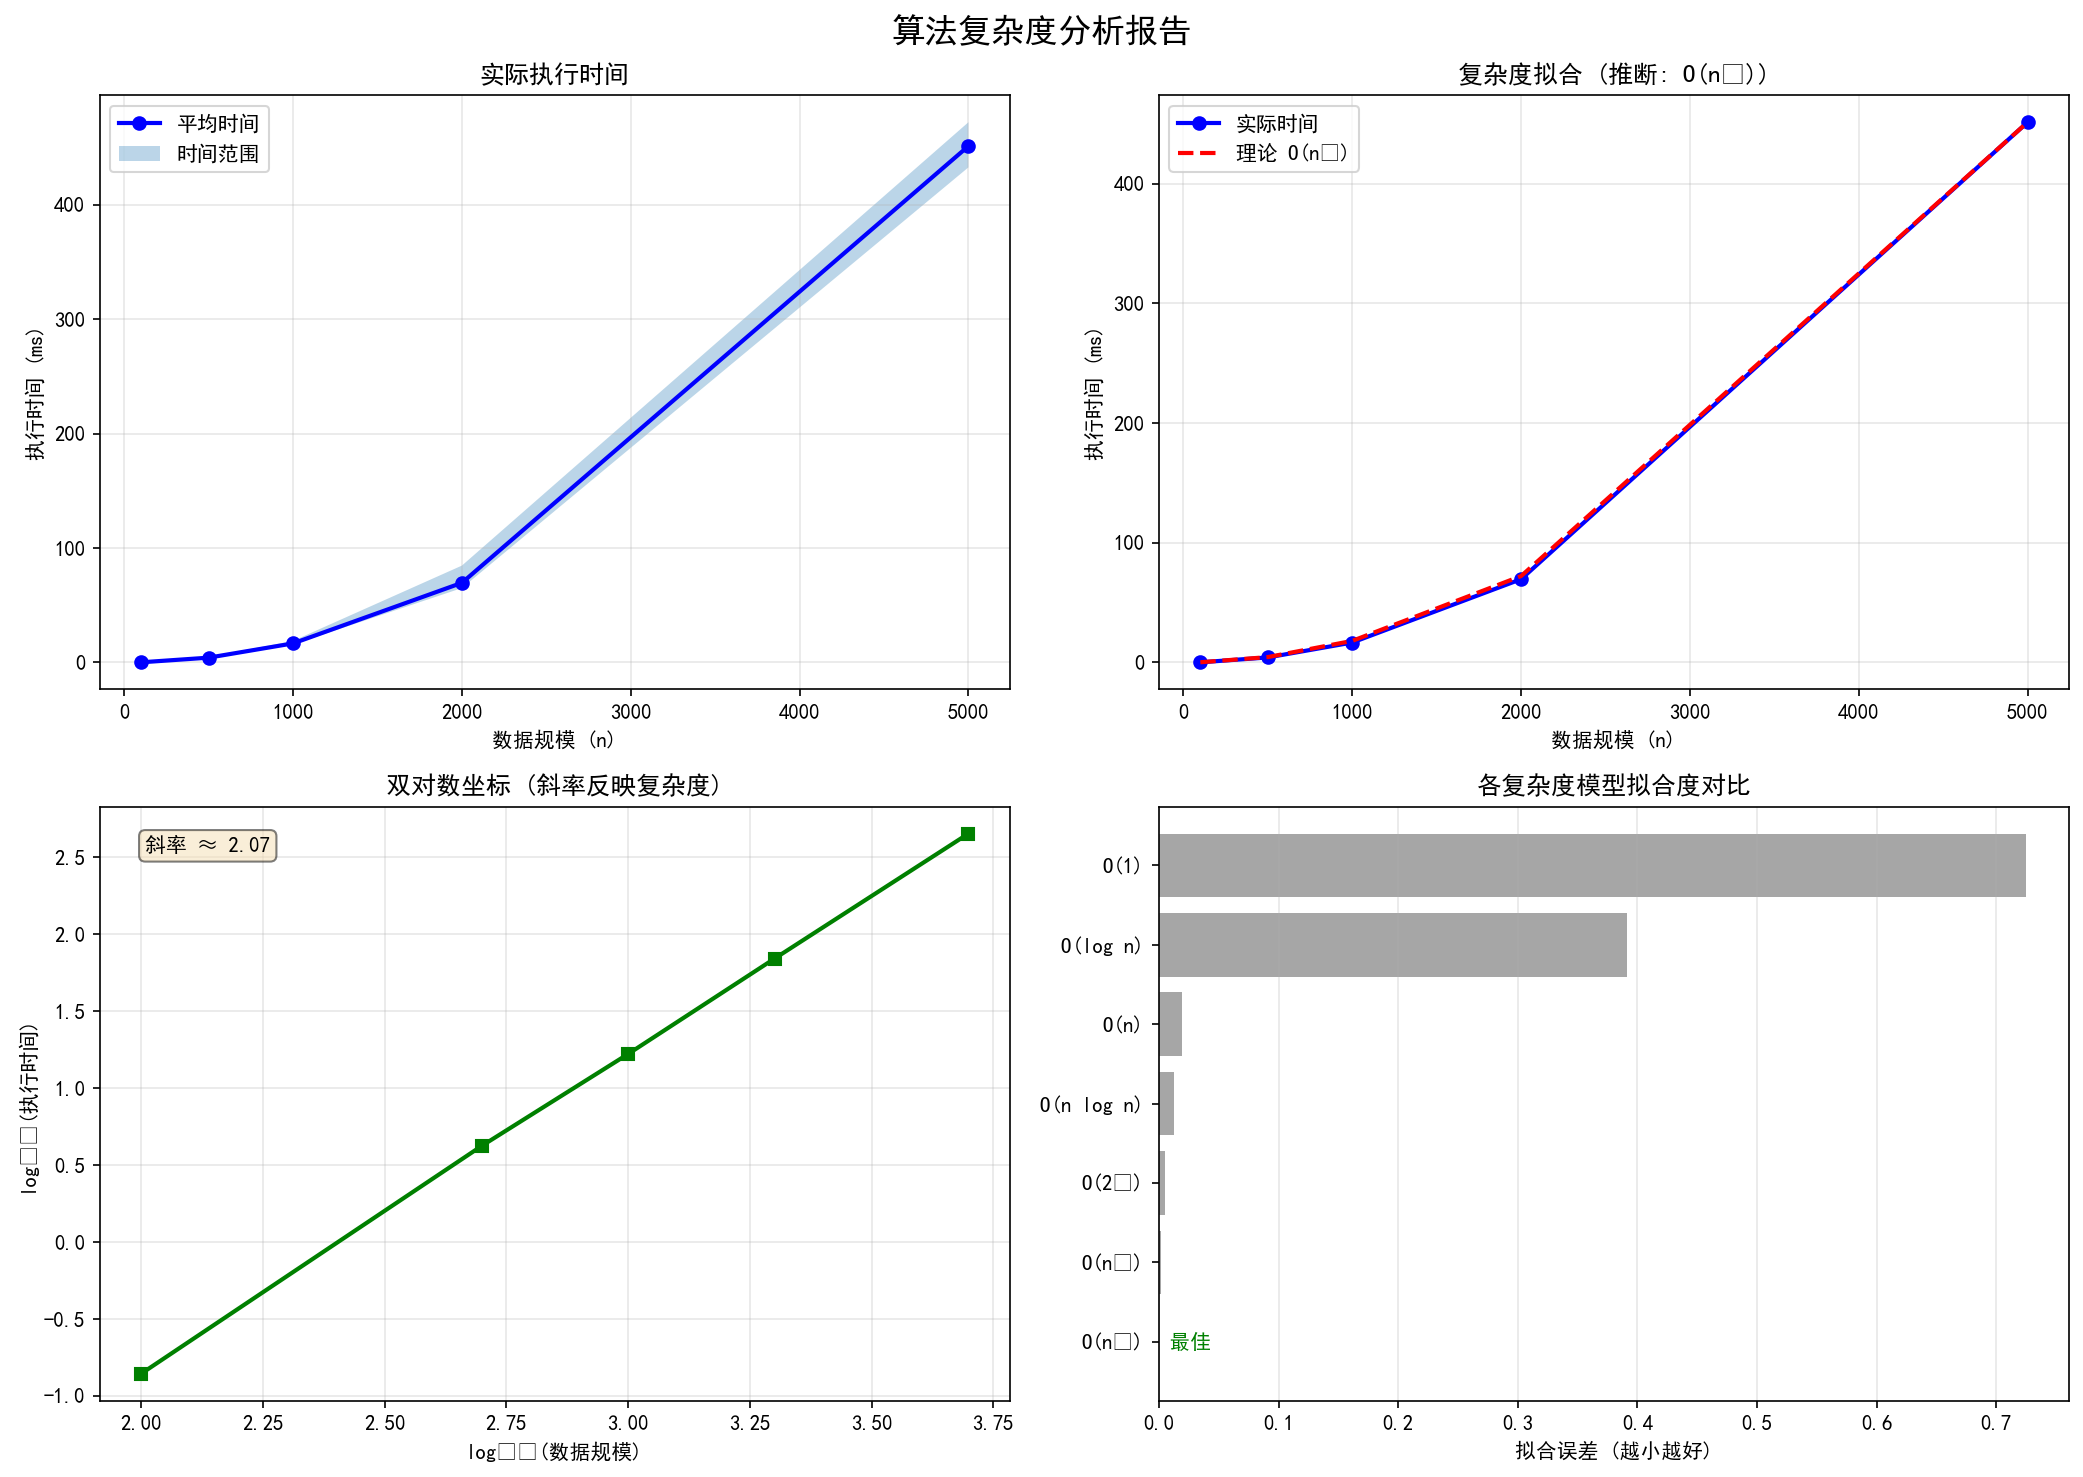
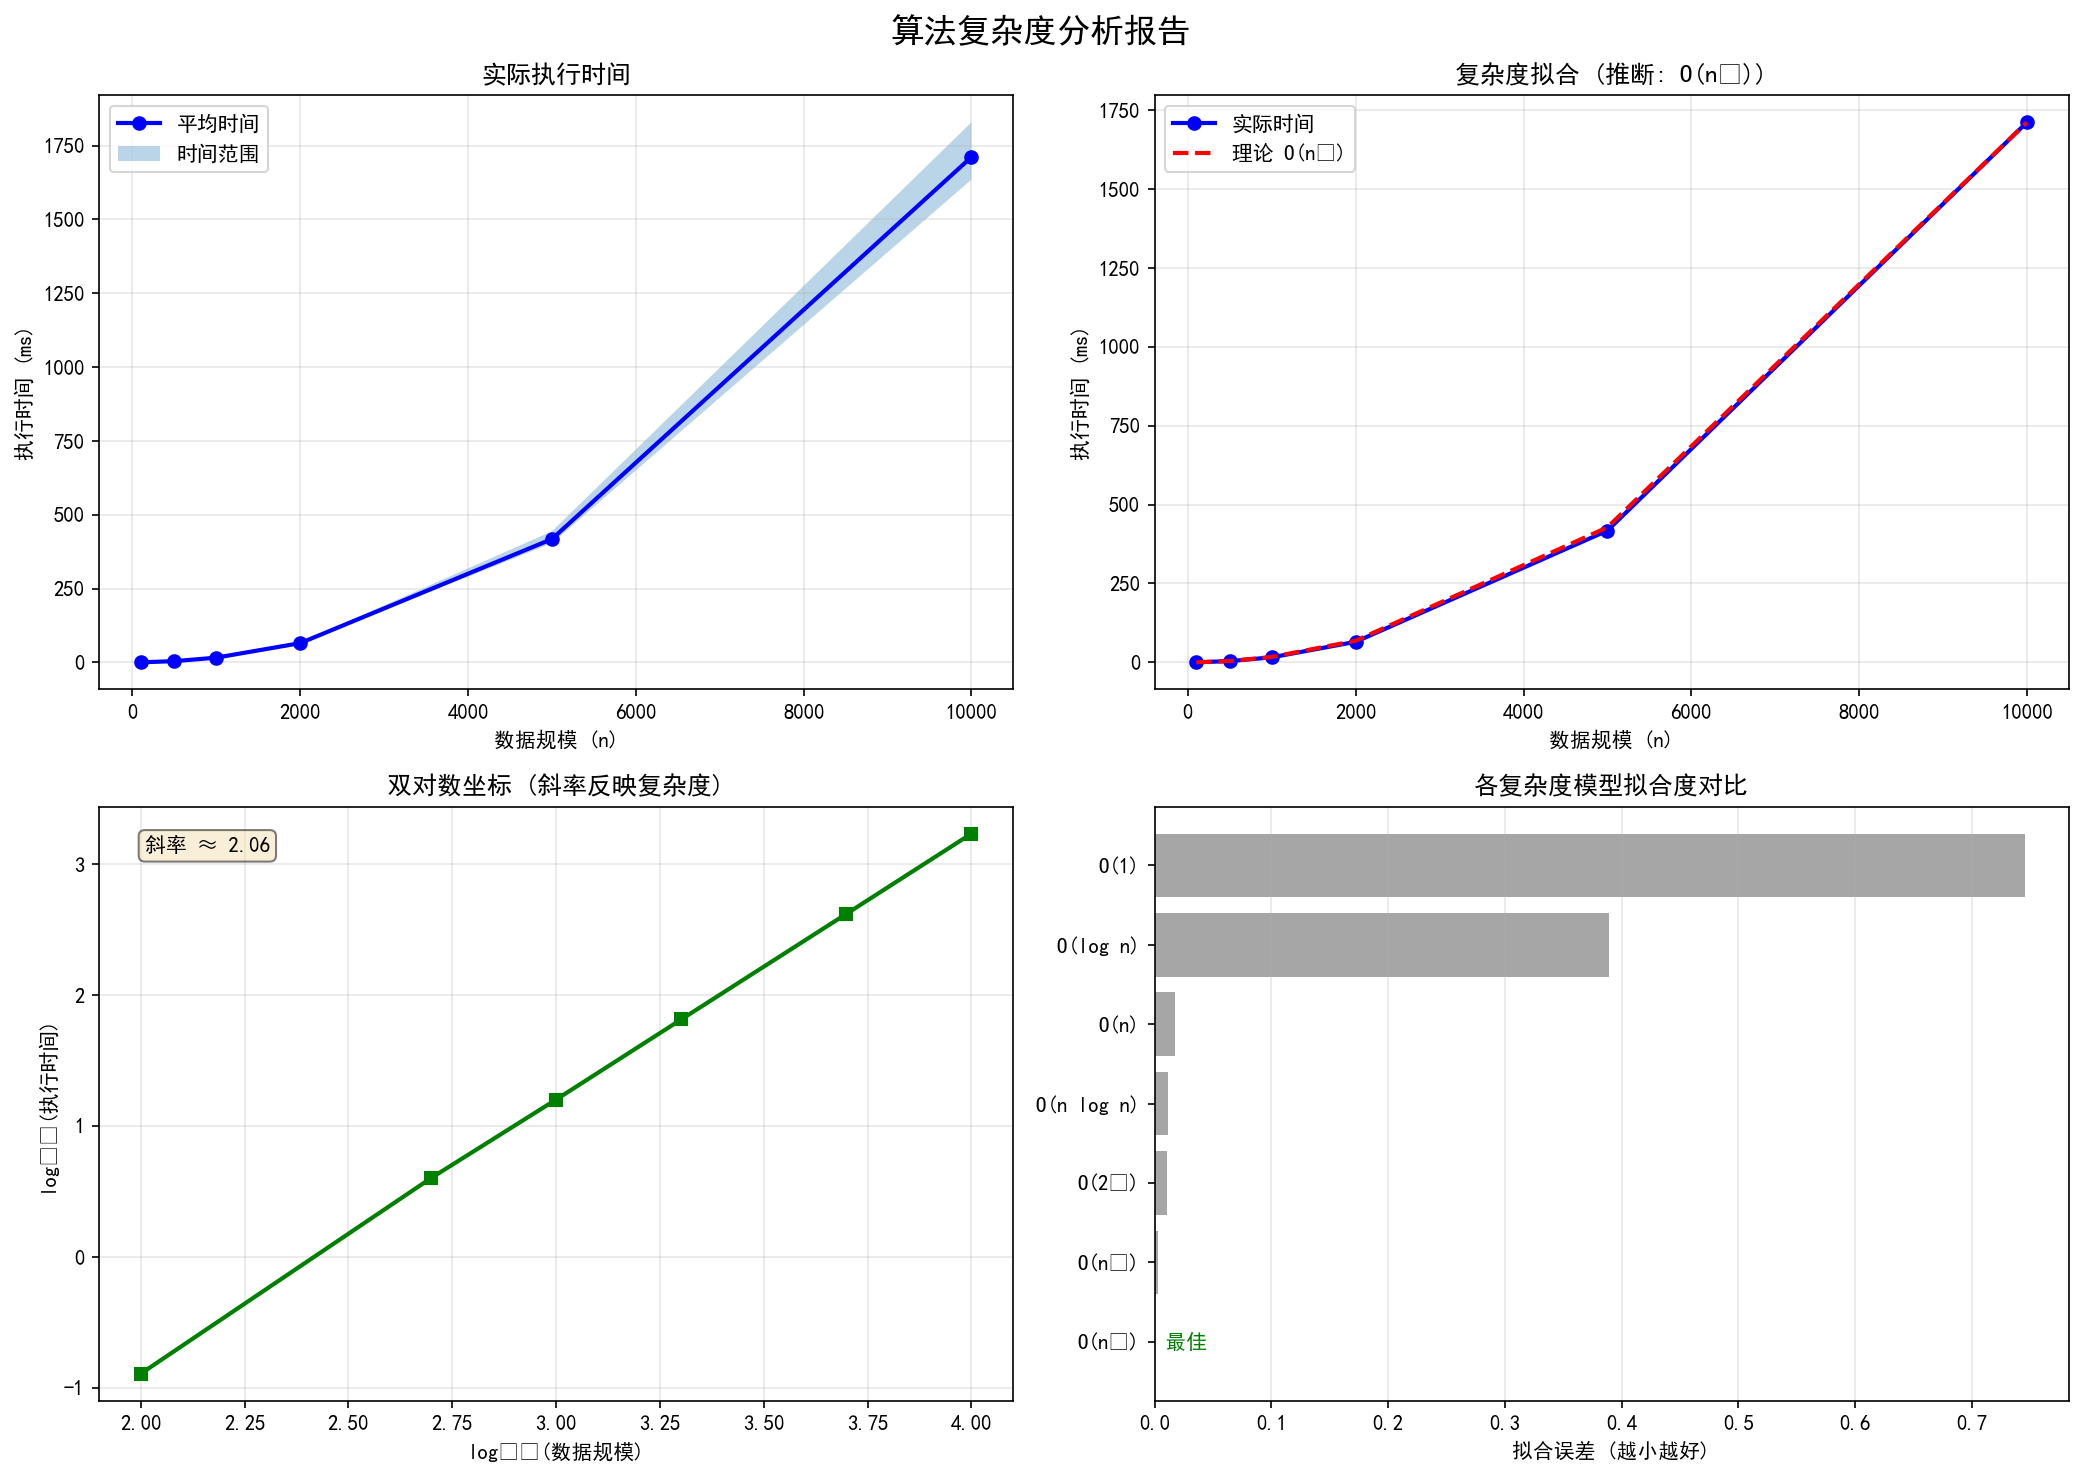
feat(algorithms): 添加并归排序测试报告与优化插入排序报告
- 重命名插入排序测试报告文件并更新生成时间与总测试次数
- 优化插入排序测试数据，增加数据规模至10000，更新性能指标
- 更新插入排序复杂度拟合误差数据，微调增长率分析表
- 完善插入排序源码注释，增强代码可读性与解释说明
- 新增归并排序测试报告文档，包含正确性测试与效率测试详细数据
- 提供归并排序复杂度分析、增长率及拟合误差综合评估
- 添加归并排序可视化复杂度分析图和完整源码实现

diff --git a/src/content/blog/算法分析与设计/insertion_sort_test_report.md b/src/content/blog/算法分析与设计/insertion_sort_test_report.md
@@ -1,15 +1,13 @@
 ---
-title: "Insertion Sort Test Report"
-description: ""
-pubDate: 2026-03-10
-updatedDate: 2026-03-10  # 可选
-heroImage: ../../../assets/insertion_sort_complexity.png  # 可选封面图
+title: 'Insertion Sort Test Report'
+description: ''
+pubDate: 'Mar 10 2026'
+heroImage: '../../../assets/insertion_sort_complexity.png'
 ---
 # 算法分析报告
 
-[Jump to source code](#source-code)
-
-**生成时间**: 2026-03-09 14:26:14
+**算法源码**: [insertion_sort](#source-code)
+**生成时间**: 2026-03-10 22:41:57
 
 ---
 
@@ -39,43 +37,45 @@ heroImage: ../../../assets/insertion_sort_complexity.png  # 可选封面图
 ## 3. 效率测试
 
 **测试轮数**: 每规模 5 轮
-**总测试次数**: 25 次
+**总测试次数**: 30 次
 
 | 数据规模 | 平均时间 (ms) | 最小时间 (ms) | 最大时间 (ms) |
 |----------|---------------|---------------|---------------|
-| 100 | 0.139 | 0.130 | 0.154 |
-| 500 | 4.204 | 3.787 | 4.752 |
-| 1000 | 16.666 | 15.752 | 18.848 |
-| 2000 | 69.588 | 64.998 | 84.648 |
-| 5000 | 451.168 | 432.548 | 471.991 |
+| 100 | 0.128 | 0.115 | 0.135 |
+| 500 | 4.002 | 3.331 | 5.905 |
+| 1000 | 15.914 | 14.510 | 19.707 |
+| 2000 | 65.094 | 62.714 | 67.255 |
+| 5000 | 417.567 | 403.680 | 443.840 |
+| 10000 | 1711.736 | 1635.196 | 1829.467 |
 
 ## 4. 复杂度分析
 
 **推断复杂度**: `O(n²)`
 **置信度**: 95.0%
 **增长趋势**: 快速增长
-**数据点**: 5 个
+**数据点**: 6 个
 
 ### 增长率分析
 
 | 规模变化 | 时间变化倍数 | 对数时间比 |
 |----------|--------------|------------|
-| 5.00x | 30.180x | 4.916 |
-| 2.00x | 3.964x | 1.987 |
-| 2.00x | 4.175x | 2.062 |
-| 2.50x | 6.483x | 2.697 |
+| 5.00x | 31.223x | 4.965 |
+| 2.00x | 3.977x | 1.992 |
+| 2.00x | 4.090x | 2.032 |
+| 2.50x | 6.415x | 2.681 |
+| 2.00x | 4.099x | 2.035 |
 
 ### 各复杂度模型拟合度
 
 | 复杂度 | 拟合误差 (越小越好) |
 |--------|---------------------|
 | O(n²) | 0.0000 ⭐ |
-| O(n³) | 0.0018  |
-| O(2ⁿ) | 0.0050  |
-| O(n log n) | 0.0122  |
-| O(n) | 0.0191  |
-| O(log n) | 0.3910  |
-| O(1) | 0.7247  |
+| O(n³) | 0.0025  |
+| O(2ⁿ) | 0.0102  |
+| O(n log n) | 0.0115  |
+| O(n) | 0.0171  |
+| O(log n) | 0.3890  |
+| O(1) | 0.7456  |
 
 ## 5. 可视化分析
 
@@ -90,15 +90,32 @@ heroImage: ../../../assets/insertion_sort_complexity.png  # 可选封面图
 算法表现为 `O(n²)`，适用于小规模数据。对于大规模数据，建议考虑更高效的算法。
 
 # Source Code
-```python 
-def sort(nums):
-    nums = list(nums)
-    for j in range(1, len(nums)):
-        key = nums[j]
-        i = j - 1
-        while i >= 0 and nums[i] > key:
-            nums[i+1] = nums[i]
-            i -= 1
-        nums[i+1] = key
-    return nums
+
+```python
+def sort(arr):
+    """
+    插入排序
+    
+    Args:
+        arr: 待排序列表
+        
+    Returns:
+        排序后的列表
+    """
+    # 创建副本，避免修改原列表
+    result = list(arr)
+    
+    for i in range(1, len(result)):
+        key = result[i]
+        j = i - 1
+        
+        # 将大于key的元素向后移动
+        while j >= 0 and result[j] > key:
+            result[j + 1] = result[j]
+            j -= 1
+        
+        result[j + 1] = key
+    
+    return result
+
 ```

diff --git a/src/content/blog/算法分析与设计/merge_sort_test_report.md b/src/content/blog/算法分析与设计/merge_sort_test_report.md
@@ -1,0 +1,116 @@
+---
+title: 'Merge Sort Test Report'
+description: ''
+pubDate: 'Mar 10 2026'
+heroImage: '../../../assets/merge_sort_complexity.png'
+---
+# 算法分析报告
+
+**算法源码**: [merge_sort](#source-code)
+**生成时间**: 2026-03-10 22:42:10
+
+---
+
+## 1. 执行摘要
+
+- **正确性测试**: ✅ 通过
+- **推断复杂度**: `O(n)`
+- **置信度**: 95.0%
+
+## 2. 正确性测试
+
+**总计**: 8 个测试用例
+**通过**: 8
+**失败**: 0
+
+| 测试用例 | 状态 | 输入 | 输出/错误 |
+|----------|------|------|-----------|
+| 空数组 | ✅ 通过 | `[]` | `[]` |
+| 单元素 | ✅ 通过 | `[1]` | `[1]` |
+| 基本排序 | ✅ 通过 | `[3, 1, 2]` | `[1, 2, 3]` |
+| 逆序数组 | ✅ 通过 | `[5, 4, 3, 2, 1]` | `[1, 2, 3, 4, 5]` |
+| 已排序数组 | ✅ 通过 | `[1, 2, 3, 4, 5]` | `[1, 2, 3, 4, 5]` |
+| 重复元素 | ✅ 通过 | `[2, 2, 1, 1, 3, 3]` | `[1, 1, 2, 2, 3, 3]` |
+| 包含负数 | ✅ 通过 | `[-3, -1, -2, 0, 1]` | `[-3, -2, -1, 0, 1]` |
+| 大数值 | ✅ 通过 | `[1000000, 1, 500]` | `[1, 500, 1000000]` |
+
+## 3. 效率测试
+
+**测试轮数**: 每规模 5 轮
+**总测试次数**: 30 次
+
+| 数据规模 | 平均时间 (ms) | 最小时间 (ms) | 最大时间 (ms) |
+|----------|---------------|---------------|---------------|
+| 100 | 0.116 | 0.112 | 0.122 |
+| 500 | 0.611 | 0.604 | 0.634 |
+| 1000 | 1.764 | 1.354 | 2.704 |
+| 2000 | 3.394 | 2.860 | 3.855 |
+| 5000 | 9.147 | 8.556 | 9.791 |
+| 10000 | 18.615 | 17.674 | 20.035 |
+
+## 4. 复杂度分析
+
+**推断复杂度**: `O(n)`
+**置信度**: 95.0%
+**增长趋势**: 线性增长
+**数据点**: 6 个
+
+### 增长率分析
+
+| 规模变化 | 时间变化倍数 | 对数时间比 |
+|----------|--------------|------------|
+| 5.00x | 5.258x | 2.395 |
+| 2.00x | 2.888x | 1.530 |
+| 2.00x | 1.924x | 0.944 |
+| 2.50x | 2.695x | 1.430 |
+| 2.00x | 2.035x | 1.025 |
+
+### 各复杂度模型拟合度
+
+| 复杂度 | 拟合误差 (越小越好) |
+|--------|---------------------|
+| O(n) | 0.0001 ⭐ |
+| O(n log n) | 0.0003  |
+| O(n²) | 0.0144  |
+| O(n³) | 0.0291  |
+| O(2ⁿ) | 0.0475  |
+| O(log n) | 0.2811  |
+| O(1) | 0.6116  |
+
+## 5. 可视化分析
+
+![复杂度分析图](../../../assets/merge_sort_complexity.png)
+
+## 6. 结论与建议
+
+### ✅ 正确性
+算法通过了所有正确性测试用例，实现正确。
+
+### 📊 复杂度评估
+算法表现为 `O(n)`，这是非常优秀的线性时间复杂度。
+
+# Source Code
+
+```python
+def sort(nums: list[int]) -> list[int]:
+    nums = list(nums)
+    if len(nums) <= 1:
+        return nums
+    arr_1 = sort(nums[0:len(nums)//2])
+    arr_2 = sort(nums[len(nums)//2:len(nums)])
+    merged_arr = []
+    i, j = 0, 0
+    while i < len(arr_1) and j < len(arr_2):
+        if arr_1[i] > arr_2[j]:
+            merged_arr.append(arr_2[j])
+            j += 1
+        else:
+            merged_arr.append(arr_1[i])
+            i += 1
+    if i == len(arr_1):
+        merged_arr += arr_2[j:len(arr_2)]
+    else:
+        merged_arr += arr_1[i:len(arr_1)]
+    return merged_arr
+
+```
